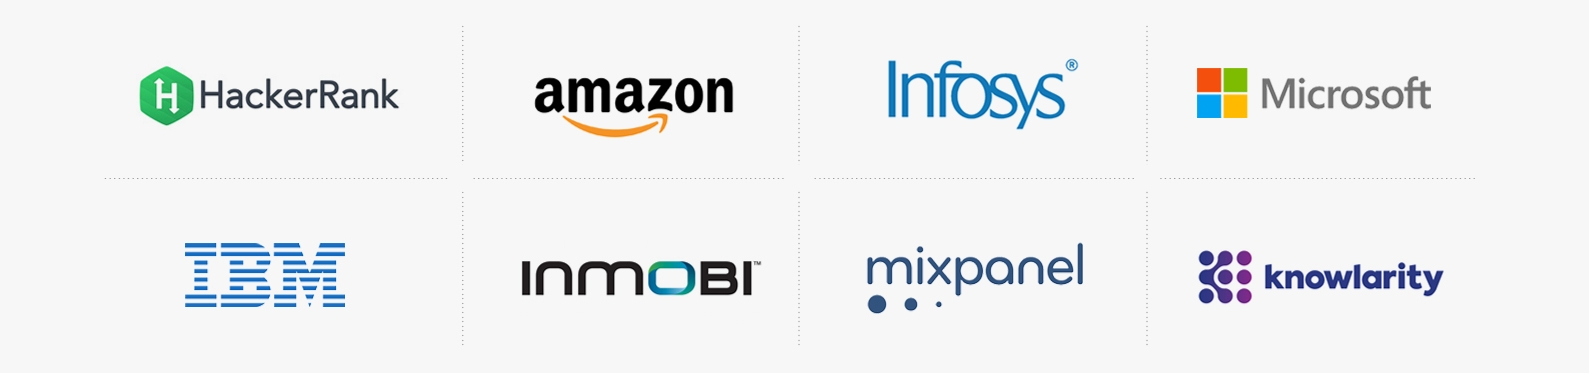
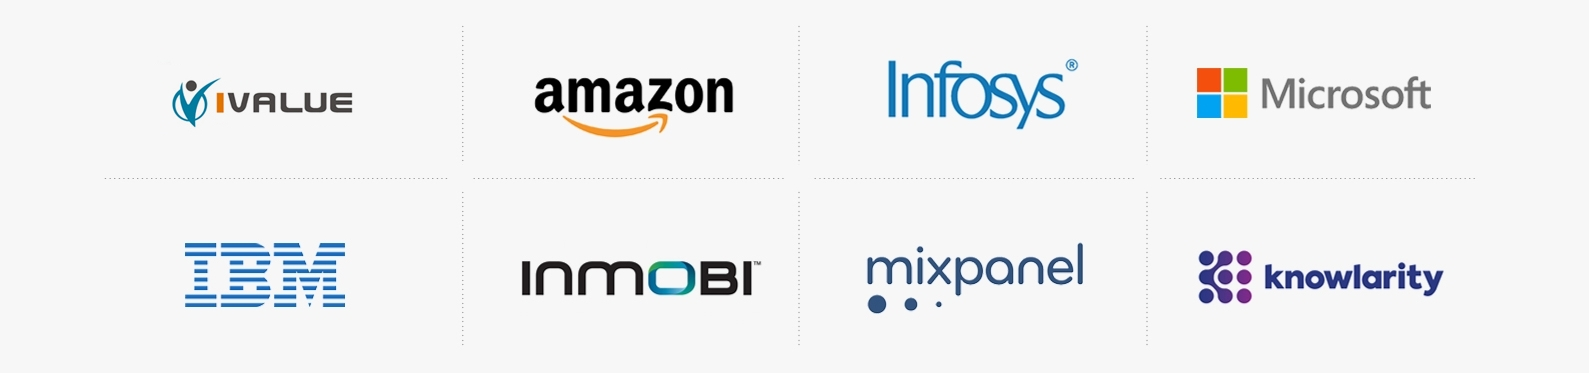
Addding NBI, minor text changes

Changed region(s): [[0.0617, 0.1769, 0.2467, 0.3539]]

diff --git a/src/app/privacy/privacy.component.html b/src/app/privacy/privacy.component.html
@@ -14,7 +14,7 @@
 
       <h2 class="normal fs23 text-left">Created:  18 Aug 2014 ("Effective Date")<br>
 
-        Last Modified: 25 May 2018</h2> <br>
+        Last Modified: 07 Feb 2019</h2> <br>
 
       <b>Scope of This Policy</b><br>
 
@@ -44,6 +44,9 @@
           For Google Apps/Gmail users/ Outlook users, Relatas collects email and calendar metadata for
           the sole business-related use of the user and Relatas Client. Such information is never provided
           or disclosed to anyone other than the user and users specifically authorized by the Relatas.
+        </li>
+        <li>
+          You may also provide us with your contacts’ email addresses when sharing files with them or if you invite them to join Relatas. In addition, if you sign up for our paid Service, you may be asked to provide additional information, including your credit card information.
         </li>
 
       </ul>
@@ -86,6 +89,8 @@
 
         <b><i>Third Party Accounts</i></b><br>  To use the Services, you must connect your Outlook or Google Mail account with the Services, and grant us access to your Google and/or Outlook calendar, contacts and emails. If you use the Relatas mobile app, you must also grant us access to your mobile device contacts, calls, calendars and SMS, and emails.  As part of this access, the Services will access your emails, SMS, and calendar, calls (if you use the mobile app).  In addition, you may have the option of connecting about third part accounts, such as LinkedIn, Facebook and Twitter, and granting us permission to access information from these accounts as part of the Services.<br><br>
 
+        <b><i>Information We Receive from Viewers</i></b><br>
+        If you are a Viewer, a User may request that you provide them with information (including Personal Data) via the Service in order to view that User’s Content. In particular, in order to access Content that a User wants to share with Viewers, a Viewer may be asked to provide his or her email address upon opening a Relatas User’s link (or Viewers’ email address may be provided by the User). Relatas stores this information on behalf of our Users. In the event you as a Viewer provide a User with this information, you do so in accordance with that User’s privacy practices and policies. Relatas is not responsible for the privacy practices of its Users, and does not access this information except, in order to provide the Service and related support and assistance. If you are a Viewer of one of Relatas' Users and would no longer like to be contacted by such User that uses Relatas Service, please contact the User that you interact with directly.<br><br>
 
 
         <b><i>Location Information</i></b><br> If you grant us permission, we will access your location information from your mobile device. In addition, we also track location through IP address.<br><br>
@@ -104,6 +109,16 @@
 
         <b><i>Other Information We Collect Automatically</i></b><br>  We also may automatically collect the following information about your use of our Services (including our App) through cookies, web beacons, and other technologies: your domain name; your browser type and operating system; page views; links you click; IP address; location information; the length of time you visit our Site and or use our Services; referring URL; access date and time; mobile device ID; location and language information; device name and model; operating system type, name, and version; your activities within the Services; and the length of time that you are logged into our Services.  We may combine this information with other information that we have collected about you, including, where applicable, your user name, name, and other personal information  Please see the section "Cookies and Other Tracking Mechanisms" below for more information. <br><br>
 
+        If you are a Viewer who views Content you receive from a User via the Service, we automatically collect information about your interaction with such Content and our Service. The information we collect includes:<br><br>
+
+        1. Whether or not a you have viewed or are viewing Content;<br>
+        2. Date and time you viewed the Content;<br>
+        3. Number of times and length of time Content was viewed;<br>
+        4. Which portions of the Content were viewed; and<br>
+        5. Your IP address and location.<br>
+
+        <br><br>
+
 
 
         <b>How We Use the Information We Collect About You</b><br>
@@ -114,6 +129,11 @@
 
         <b><i>Your Contacts and Extended Network</i></b><br> You and your relationships to your contacts are added to the Relatas network. This means that Relatas users in your extended network may be able to see who you are connected to.  Your contacts can also request an introduction through you to one of your contacts.  You are in control of your personal network. If another Relatas user wants an introduction to one of your contacts, they must ask you. Other Relatas users cannot see your contact information unless (a) they are connected to you or (b) have already interacted with you.<br><br>
 
+
+        <b><i>Provide the Service to Users</i></b><br>
+        We use account-related data provided by Users in connection with the purchase, sign-up, use, or support of the User account (such as usernames, email address and billing information) to provide you with access to the Service and/or the Site, contact you regarding your use of the Service and/or the Site, or to notify you of important changes to the Service and/or the Site. <br><br>
+
+        We process Personal Data relating to Viewers and your Content on your behalf for the purpose of providing the Service and to provide our Users with reporting and analytics relating to your interaction with your Content and our Service, in accordance with the applicable User contract. Data relating to Viewers that we receive through the Service will be made available to Users who communicate with Viewers via the Service, and may be associated by Users with other information about Viewers (including Personal Data) that Users have provided us or that Viewers have provided to Users via the Service. Relatas may access Viewers’ Personal Data collected by its Users through their use of the Service, in order to provide the Service, and to provide related support and assistance and understand usage pattern.<br><br>
 
 
         <b><i>Your Communications</i></b><br>  We access your communications to help you manage your interactions with contacts, to provide you insights and analysis on your communications and interactions, and to help you plan future interactions.    <br><br>
@@ -146,7 +166,14 @@
 
       <li>Users of Our Services. Any comments or other information that you post to our Services, or that you submit to us as feedback, may be available to all other users.  In addition, as part of our networking features, users you are connected with can see your profile and the names of your contacts, and may ask you for an introduction to your contacts.
 
-      <li>Employers.  If you access the Service through your employer's enterprise Relatas account, your employer will have administrative access over your account, and can see your contacts and information about the number and type of your interactions; your employers do not have access to the contents of your communications through the Services.
+      <li>Employers.  If you access the Service through your employer's enterprise Relatas account, your employer will have administrative access over your account, and can see your contacts and information about the number and type of your interactions and documents uploaded or shared through our Service, and analytics. Your reporting manager and admin, may have access to some of your information shared through our Service. They may be able to:<br>
+
+        1. access information in and about your Relatas for Business account;<br>
+        2. disclose, restrict, or access information that you have provided or that is made available to you when using your Relatas for Business account; and<br>
+        3. control how your Relatas for Business account may be accessed or deleted.<br>
+        Please refer to your organization’s policies if you have questions about the same.<br><br>
+
+      <li>When Viewers receive Content from Users, we show a User’s name and Company Name to the relevant Viewer. We also give our Users the ability to provide their contact information within the Service to the relevant Viewers. We show a Viewer’s email address and name to the User who sent the Content through our Service, if the Viewer has provided his or her email address.
 
       <li>Service Providers. We may disclose the information we collect from you to third party vendors, service providers, contractors or agents who perform services for us. These service providers may only use the information we share with them on our behalf, in order to provide services to us.
 
@@ -266,5 +293,4 @@
   </tr>
 
 </table>
-
 

diff --git a/src/app/terms/terms.component.html b/src/app/terms/terms.component.html
@@ -18,7 +18,7 @@
 
       <h2 class="normal fs23 text-left">Created:  18 Aug 2014 ("Effective Date")<br>
 
-        Last Modified: 30 July 2016<br><br>
+        Last Modified: 07 Feb 2018<br><br>
 
         <!-- new -->
 
@@ -48,11 +48,15 @@
 
       You may not use the Website or the Mobile Application if you are under 13. By using the Website or the Mobile Application, You promise that You are at least 13 years of age.  If You are not yet 18 years old, You must have the permission of an adult to use the Website or the Mobile Application and agree to its Terms, and that adult must be a parent or legal guardian who is willing be responsible for Your use of the Website and the Mobile Application.<br><br>
 
-      If You are using the Website or the Mobile Application on behalf of a company or other legal entity, You are nevertheless individually bound by these Terms even if Your company has a separate agreement with Us.<br>
+      If You are using the Website or the Mobile Application on behalf of a company or other legal entity, You are nevertheless individually bound by these Terms even if Your company has a separate agreement with Us.<br><br>
 
-      We invite You to use the Website and the Mobile Application for personal or internal business purposes ("Permitted Purposes").
+      We invite You to use the Website and the Mobile Application for personal or internal business purposes ("Permitted Purposes").<br><br>
 
-      In these Terms we are granting You a limited, personal, non-exclusive and non-transferable license to use and to display the Materials; Your right to use the Materials is conditioned on Your compliance with these Terms.  You have no other rights in the Website, the Mobile Application or any Materials and You may not modify, edit, copy, reproduce, create derivative works of, reverse engineer, alter, enhance or in any way exploit any of the Website, the Mobile Application or Materials in any manner.  If You make copies of any of the Website or the Mobile Application while engaging in Permitted Purposes then We ask that You be sure to keep on the copies all of Our copyright and other proprietary notices as they appear on the Website and the Mobile Application. <br>
+      In these Terms we are granting You a limited, personal, non-exclusive and non-transferable license to use and to display the Materials; Your right to use the Materials is conditioned on Your compliance with these Terms.  You have no other rights in the Website, the Mobile Application or any Materials and You may not modify, edit, copy, reproduce, create derivative works of, reverse engineer, alter, enhance or in any way exploit any of the Website, the Mobile Application or Materials in any manner.  If You make copies of any of the Website or the Mobile Application while engaging in Permitted Purposes then We ask that You be sure to keep on the copies all of Our copyright and other proprietary notices as they appear on the Website and the Mobile Application. <br><br>
+
+      You are solely responsible for all data, information, documents, records, feedback, suggestions, text, content and other materials that you upload, share, post, deliver, provide or otherwise transmit or store (collectively referred to as “upload(ing)” in these Terms) in connection with or relating to the Service (“Your Library").  There are many things that users may do with Your Library (for example, copy, modify, or re-upload it in whole or in part).  Please consider carefully what you choose to upload.  Relatas has no responsibility for what you upload.  You agree that we cannot be liable for any dispute that arises between you and any other user.<br><br>
+
+      By uploading Your Library on or through the Service, you grant Relatas a worldwide, non-exclusive, perpetual, irrevocable, royalty-free, fully paid, sublicensable and transferable license to use, modify, reproduce, distribute, display, publish, or perform Your Library to provide the Service, enhance the Service, and develop and enhance new products, services and features.  You remain the full owner and controller of Your Library.  We do not claim any ownership to any of it.  These Terms do not grant us any rights to Your Library or intellectual property except for the limited rights that are needed to provide the Service.  We may use Your Content and other information you provide that has been de-identified, anonymized and aggregated with other de-identified, anonymized data (including from our other customers) for any of the following purposes:  our internal research and development; development of tools, methodologies, algorithms and processes; machine learning; risk management; fraud prevention; enhancing our products, services and features; developing new products, services and features; and conducting and furthering our business.<br><br>
 
       Unfortunately, if You breach any of these Terms the above license will terminate automatically and You must immediately destroy any downloaded or printed materials (and any copies thereof).<br><br>
 
@@ -102,7 +106,7 @@
 
       <b>GEO-LOCATION TERMS</b><br>
 
-      The Services include and make use of certain functionality and services provided by third-parties that allow Us to include maps, geocoding, places and other content from Google, Inc. as part of the Services (the "Geo-Location Services").  Your use of the Geo-Location Services is subject to  Google's then current Terms of Use for Google Maps/Google Earth (http://www.google.com/intl/en_us/help/terms_maps.html) and by using the Geo-Location Services, You are agreeing to be bound by Google's Terms of Use. <br><br>
+      The Services include and make use of certain functionality and services provided by third-parties that allow Us to include maps, geocoding, places and other content from third parties like, Google, Inc. as part of the Services (the "Geo-Location Services").  Your use of the Geo-Location Services is subject to  Google's then current Terms of Use for Google Maps/Google Earth (http://www.google.com/intl/en_us/help/terms_maps.html) and by using the Geo-Location Services, You are agreeing to be bound by Google's Terms of Use. <br><br>
 
 
 

diff --git a/src/app/core/shell/footer/footer.component.html b/src/app/core/shell/footer/footer.component.html
@@ -9,7 +9,7 @@
                placeholder="Enter business email Id"
                [ngStyle]="errorMsg.errorExist?{'box-shadow': '0px 0px 3px orangered','border': '1px solid orange'}:''">
         <button class="orange-btn" *ngIf="!demoRequestSent" (click)="submitDemoRequest(emailId.value)">sign up</button>
-        <div class="orange-btn" *ngIf="demoRequestSent" style="background: transparent;color: var(--blue);border-color: var(--blue);font-size: 0.8rem;padding: 3px 10px;"><i class="fas fa-check"></i> Sent</div>
+        <div class="orange-btn" *ngIf="demoRequestSent" style="background: transparent;color: var(--blue);border-color: var(--blue);font-size: 0.8rem;padding: 3px 10px;"><i class="fas fa-check"></i> Done</div>
       </div>
 
     <div class="error-popup" *ngIf="!errorMsg.pass">

diff --git a/src/app/aibooks/aibooks.component.html b/src/app/aibooks/aibooks.component.html
@@ -72,10 +72,10 @@
           </div>
           <div class="col-md-3">
             <button class="orange-btn btn-md font-weight-bold" *ngIf="!demoRequestSent" (click)="addlead(fullName.value,emailId.value)">
-              Download
+              Get It
             </button>
 
-            <div class="orange-btn" *ngIf="demoRequestSent" style="text-align: center;background: transparent;color: var(--blue);border-color: var(--blue);font-size: 0.8rem;padding: 7px 10px;"><i class="fas fa-check"></i> Sent</div>
+            <div class="orange-btn" *ngIf="demoRequestSent" style="text-align: center;background: transparent;color: var(--blue);border-color: var(--blue);font-size: 0.8rem;padding: 7px 10px;"><i class="fas fa-check"></i> Done</div>
           </div>
         </div>
       </div>

diff --git a/src/app/casestudies/casestudies.component.html b/src/app/casestudies/casestudies.component.html
@@ -63,9 +63,9 @@
           </div>
           <div class="col-md-3">
             <button class="orange-btn btn-md font-weight-bold" *ngIf="!demoRequestSent" (click)="addlead(fullName.value,emailId.value)">
-              Download
+              Get It
             </button>
-            <div class="orange-btn" *ngIf="demoRequestSent" style="text-align: center;background: transparent;color: var(--blue);border-color: var(--blue);font-size: 0.8rem;padding: 7px 10px;"><i class="fas fa-check"></i> Sent</div>
+            <div class="orange-btn" *ngIf="demoRequestSent" style="text-align: center;background: transparent;color: var(--blue);border-color: var(--blue);font-size: 0.8rem;padding: 7px 10px;"><i class="fas fa-check"></i> Done</div>
           </div>
         </div>
       </div>

diff --git a/src/app/whitepaper/whitepaper.component.html b/src/app/whitepaper/whitepaper.component.html
@@ -65,9 +65,9 @@
           </div>
           <div class="col-md-3">
             <button class="orange-btn btn-md font-weight-bold" *ngIf="!demoRequestSent" (click)="addlead(fullName.value,emailId.value)">
-              Download
+              Get It
             </button>
-            <div class="orange-btn" *ngIf="demoRequestSent" style="text-align: center;background: transparent;color: var(--blue);border-color: var(--blue);font-size: 0.8rem;padding: 7px 10px;"><i class="fas fa-check"></i> Sent</div>
+            <div class="orange-btn" *ngIf="demoRequestSent" style="text-align: center;background: transparent;color: var(--blue);border-color: var(--blue);font-size: 0.8rem;padding: 7px 10px;"><i class="fas fa-check"></i> Done</div>
           </div>
         </div>
       </div>

diff --git a/src/app/usecases/usecases.component.html b/src/app/usecases/usecases.component.html
@@ -74,9 +74,9 @@
 
           <div class="col-md-3">
             <button class="orange-btn btn-md font-weight-bold" *ngIf="!demoRequestSent" (click)="addlead(fullName.value,emailId.value)">
-              Download
+              Get It
             </button>
-            <div class="orange-btn" *ngIf="demoRequestSent" style="text-align: center;background: transparent;color: var(--blue);border-color: var(--blue);font-size: 0.8rem;padding: 7px 10px;"><i class="fas fa-check"></i> Sent</div>
+            <div class="orange-btn" *ngIf="demoRequestSent" style="text-align: center;background: transparent;color: var(--blue);border-color: var(--blue);font-size: 0.8rem;padding: 7px 10px;"><i class="fas fa-check"></i> Done</div>
           </div>
         </div>
       </div>

diff --git a/src/app/demo/demo.component.html b/src/app/demo/demo.component.html
@@ -68,7 +68,7 @@
             <button class="orange-btn btn-md font-weight-bold" *ngIf="!demoRequestSent" (click)="addlead(fullName.value,emailId.value)">
               request a demo
             </button>
-            <div class="orange-btn" *ngIf="demoRequestSent" style="text-align: center;background: transparent;color: var(--blue);border-color: var(--blue);font-size: 0.8rem;padding: 7px 10px;"><i class="fas fa-check"></i> Sent</div>
+            <div class="orange-btn" *ngIf="demoRequestSent" style="text-align: center;background: transparent;color: var(--blue);border-color: var(--blue);font-size: 0.8rem;padding: 7px 10px;"><i class="fas fa-check"></i> Done</div>
           </div>
         </div>
       </div>

diff --git a/src/app/home/home.component.html b/src/app/home/home.component.html
@@ -4,11 +4,11 @@
       <span class="span-bg-img">
         <div class="hero-text">
            <h1 class="text-uppercase">
-            Close More Deals. <br><span>Predictably.</span>
+            Close More Deals, <br> <span>Predictably.</span>
             <!--<span>We makes it easy</span>-->
           </h1>
           <p>
-            Successful sales teams rely on Relatas - Sales AI for Sales Execution and Forecasting
+            Successful sales teams rely on Relatas - Sales AI for Accurate Sales Forecasting
           </p>
           <div class="btns-grp-wrapper">
             <button class="orange-btn font-weight-bold" routerLink="/demo">See it in action</button>

diff --git a/src/app/about/about.component.html b/src/app/about/about.component.html
@@ -238,7 +238,7 @@
     <div class="container">
       <h1>AWARDS</h1>
       <div class="row">
-        <div class="col-md-2 offset-md-1">
+        <div class="col-md-2">
           <img src="assets/website/google.png">
         </div>
         <div class="col-md-2">
@@ -252,6 +252,9 @@
         </div>
         <div class="col-md-2">
           <img src="assets/website/hot100.png">
+        </div>
+        <div class="col-md-2">
+          <img src="assets/website/NBI.png">
         </div>
       </div>
 

diff --git a/src/app/product/product.component.html b/src/app/product/product.component.html
@@ -54,7 +54,7 @@
       <h3 class="text-uppercase bold">
         SOLUTION
       </h3>
-      Relatas helps sales teams with sales execution and drives forecast predictabiliy across sales organisation.
+      Relatas helps sales teams with sales execution and drives forecast predictably across sales organisation.
 
       <p>Relatas leverages AI to help you get answers for key questions about your team, accounts, pipeline
         and forecast.</p>

diff --git a/src/app/core/shell/footer/footer.component.scss b/src/app/core/shell/footer/footer.component.scss
@@ -58,6 +58,8 @@
 .footer-mailer .input-field input {
   width: 60%;
   height: 34px;
+  background: var(--orange);
+  color:#fff;
 }
 
 .footer-mailer .input-field .orange-btn {
@@ -65,6 +67,12 @@
   position: absolute;
   right: 176px;
   top: 4px;
+  color: var(--orange);
+  background: #fff !important;
+}
+
+.footer-mailer ::placeholder {
+  color:#fff;
 }
 
 ::placeholder { /* Chrome, Firefox, Opera, Safari 10.1+ */
